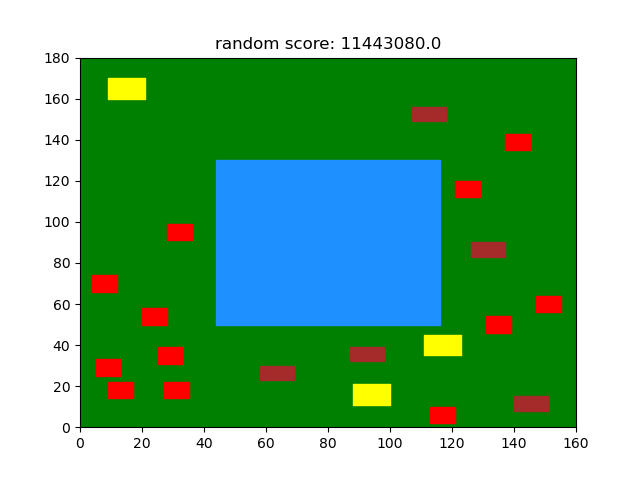
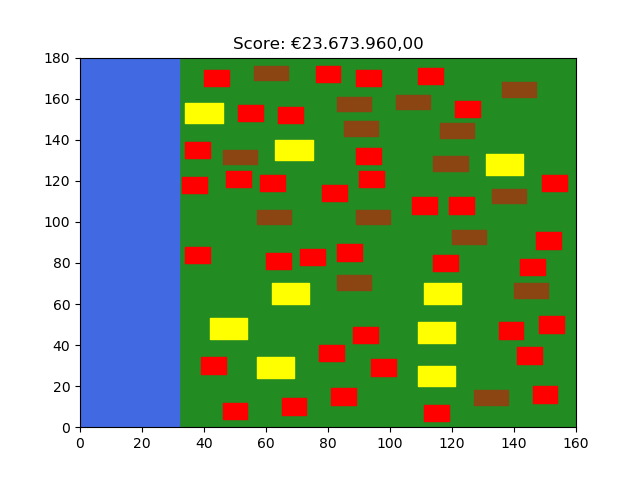
Visualisatie update

diff --git a/code/helpers/visualize.py b/code/helpers/visualize.py
@@ -9,10 +9,14 @@ def visualise(nb, score, x=None):
     ax.set_xlim(0,Borders().maxX)
     ax.set_ylim(0,Borders().maxY)
 
-    ax.set_facecolor("green")
+    ax.set_facecolor("forestgreen")
 
-    # title is the score in correct money formatting
-    ax.set_title("Score: " + "€{:,.2f}".format(score))
+    # title of the plot is the score in correct currency formatting
+    title = "Score: €{:,.2f}".format(score)
+    score_main, score_fractional = title.split(".")[0], title.split(".")[1]
+    new_score_main = score_main.replace(",", ".")
+    title = new_score_main + "," + score_fractional
+    ax.set_title(title)
 
     for i in range(len(nb)):
         if nb[i].name == "maison":
@@ -28,7 +32,7 @@ def visualise(nb, score, x=None):
             # bungalow1.set_color("gray")
             # ax.add_collection(bungalow1)
             bungalow = coll.PatchCollection([rect.Rectangle((nb[i].x0,nb[i].y0), 11, 7)])
-            bungalow.set_color("brown")
+            bungalow.set_color("saddlebrown")
             ax.add_collection(bungalow)
 
         if nb[i].name == "sfh":
@@ -42,7 +46,7 @@ def visualise(nb, score, x=None):
         if nb[i].name == "WATER":
             waterLocation = rect.Rectangle((nb[i].x0, nb[i].y0), nb[i].width, nb[i].length)
             water = coll.PatchCollection([waterLocation])
-            water.set_color("dodgerblue")
+            water.set_color("royalblue")
             ax.add_collection(water)
     
     if x != None:
